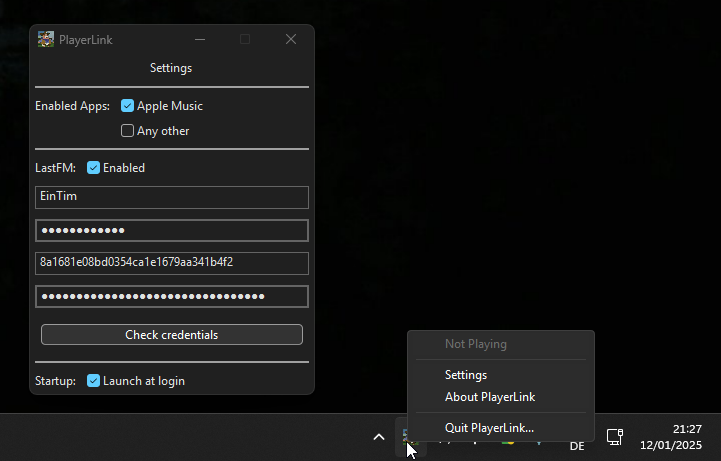
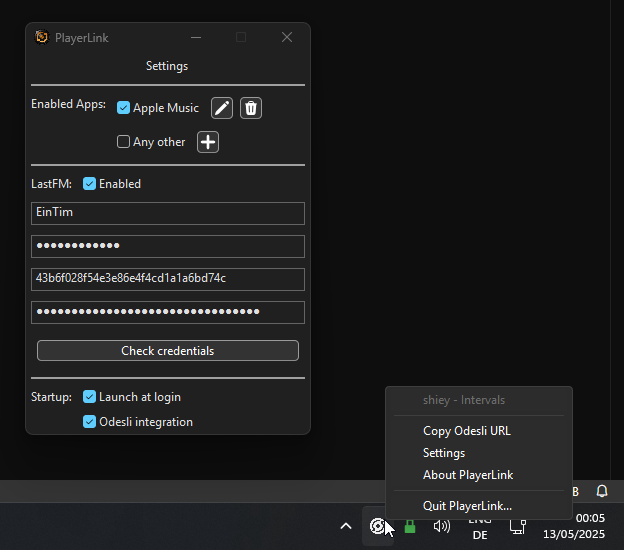
updated screenshots

Changed region(s): [[0.0, 0.0304, 1.0, 1.0]]

diff --git a/src/main.cpp b/src/main.cpp
@@ -154,11 +154,17 @@ void handleMediaTasks() {
     }
 }
 
+void SetWindowIcon(wxTopLevelWindow* win) {
+    const wxIcon icon = utils::loadIconFromMemory(icon_png, icon_png_size);
+    win->SetIcon(icon);
+}
+
 class AboutDialog : public wxDialog {
 public:
     AboutDialog(wxWindow* parent)
         : wxDialog(parent, wxID_ANY, _("About PlayerLink"), wxDefaultPosition, wxDefaultSize,
                    wxDEFAULT_DIALOG_STYLE & ~wxRESIZE_BORDER) {
+        SetWindowIcon(this);
         wxBoxSizer* mainSizer = new wxBoxSizer(wxVERTICAL);
         wxStaticText* label = new wxStaticText(this, wxID_ANY, _("Made with <3 by EinTim"));
         label->Wrap(300);
@@ -192,6 +198,7 @@ public:
     EditAppDialog(wxWindow* parent, const wxString title, utils::App* app)
         : wxDialog(parent, wxID_ANY, title, wxDefaultPosition, wxDefaultSize,
                    wxDEFAULT_DIALOG_STYLE & ~wxRESIZE_BORDER) {
+        SetWindowIcon(this);
         Bind(wxEVT_CLOSE_WINDOW, &EditAppDialog::OnClose, this);
 
         wxBoxSizer* mainSizer = new wxBoxSizer(wxVERTICAL);
@@ -378,12 +385,12 @@ private:
 
 class PlayerLinkFrame : public wxFrame {
 public:
-    PlayerLinkFrame(wxWindow* parent, wxIcon& icon, wxWindowID id = wxID_ANY, const wxString& title = wxEmptyString,
+    PlayerLinkFrame(wxWindow* parent, wxWindowID id = wxID_ANY, const wxString& title = wxEmptyString,
                     const wxPoint& pos = wxDefaultPosition, const wxSize& size = wxSize(300, 200),
                     long style = wxDEFAULT_FRAME_STYLE & ~wxRESIZE_BORDER & ~wxMAXIMIZE_BOX)
         : wxFrame(parent, id, title, pos, size, style) {
         this->SetSizeHints(wxDefaultSize, wxDefaultSize);
-        this->SetIcon(icon);
+        SetWindowIcon(this);
 
         auto mainContainer = new wxBoxSizer(wxVERTICAL);
         wxPanel* panel = new wxPanel(this, wxID_ANY, wxDefaultPosition, wxDefaultSize, wxTAB_TRAVERSAL);
@@ -666,9 +673,8 @@ public:
             this->SetAppearance(wxAppBase::Appearance::Dark);
 
         wxInitAllImageHandlers();
-        wxIcon icon = utils::loadIconFromMemory(icon_png, icon_png_size);
         wxIcon tray_icon = utils::loadIconFromMemory(menubar_icon_png, menubar_icon_png_size);
-        PlayerLinkFrame* frame = new PlayerLinkFrame(nullptr, icon, wxID_ANY, _("PlayerLink"));
+        PlayerLinkFrame* frame = new PlayerLinkFrame(nullptr, wxID_ANY, _("PlayerLink"));
         trayIcon = new PlayerLinkIcon(frame);
         frame->Bind(wxEVT_CLOSE_WINDOW, [=](wxCloseEvent& event) {
             if (event.CanVeto()) {
